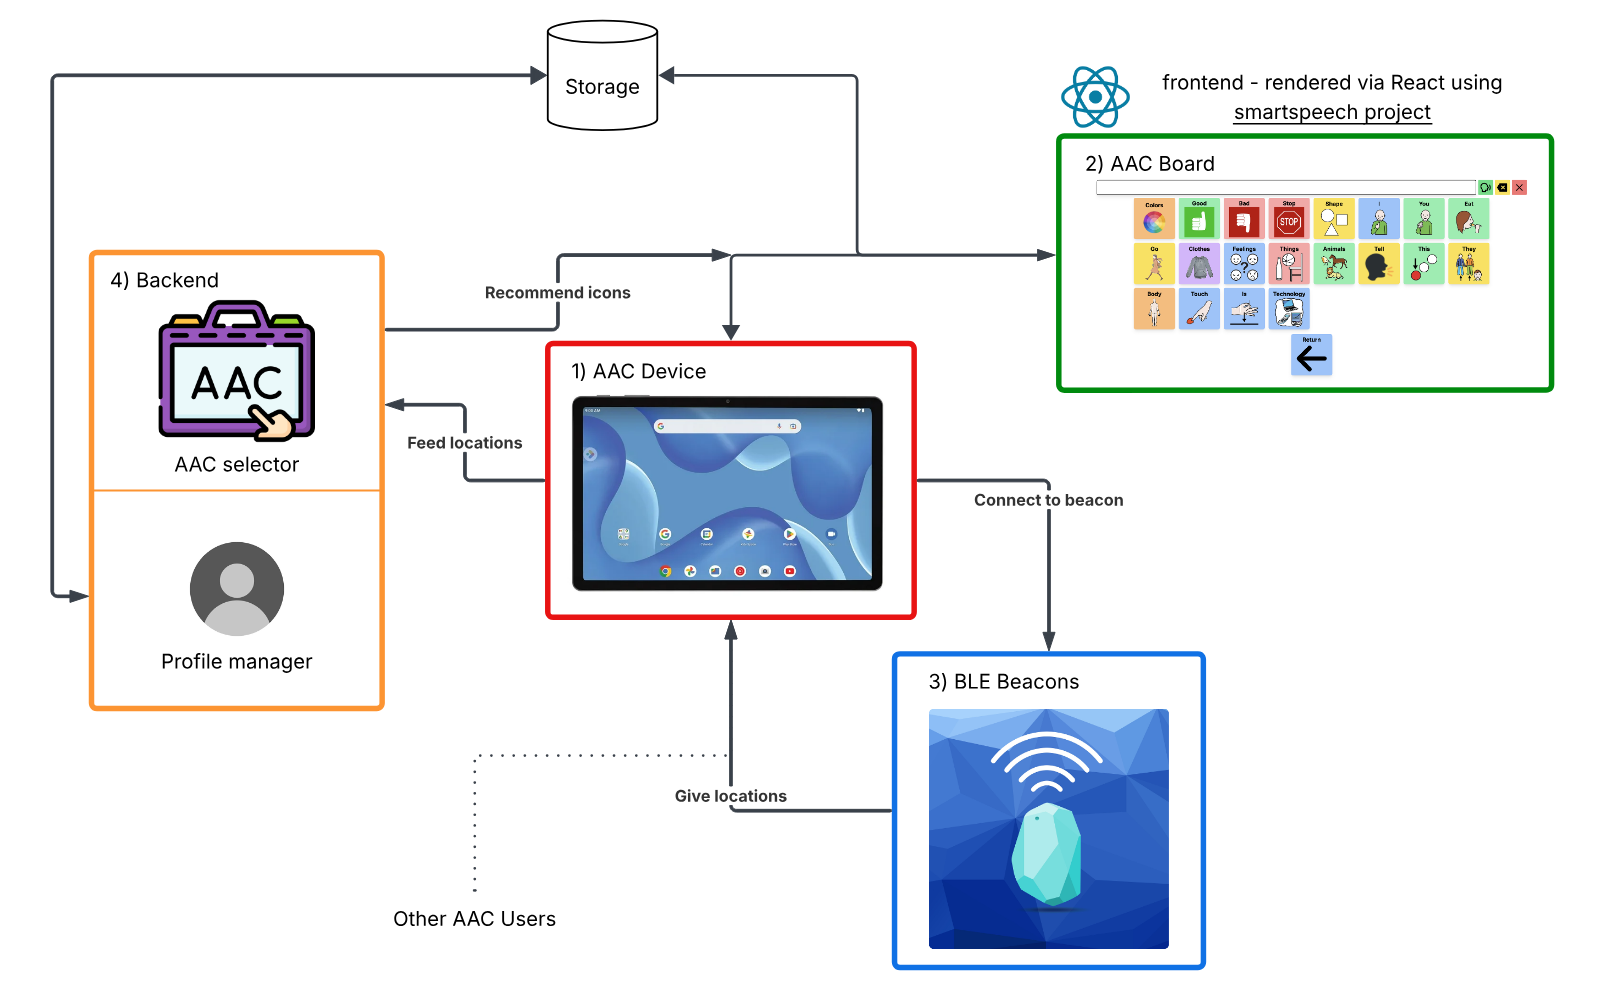
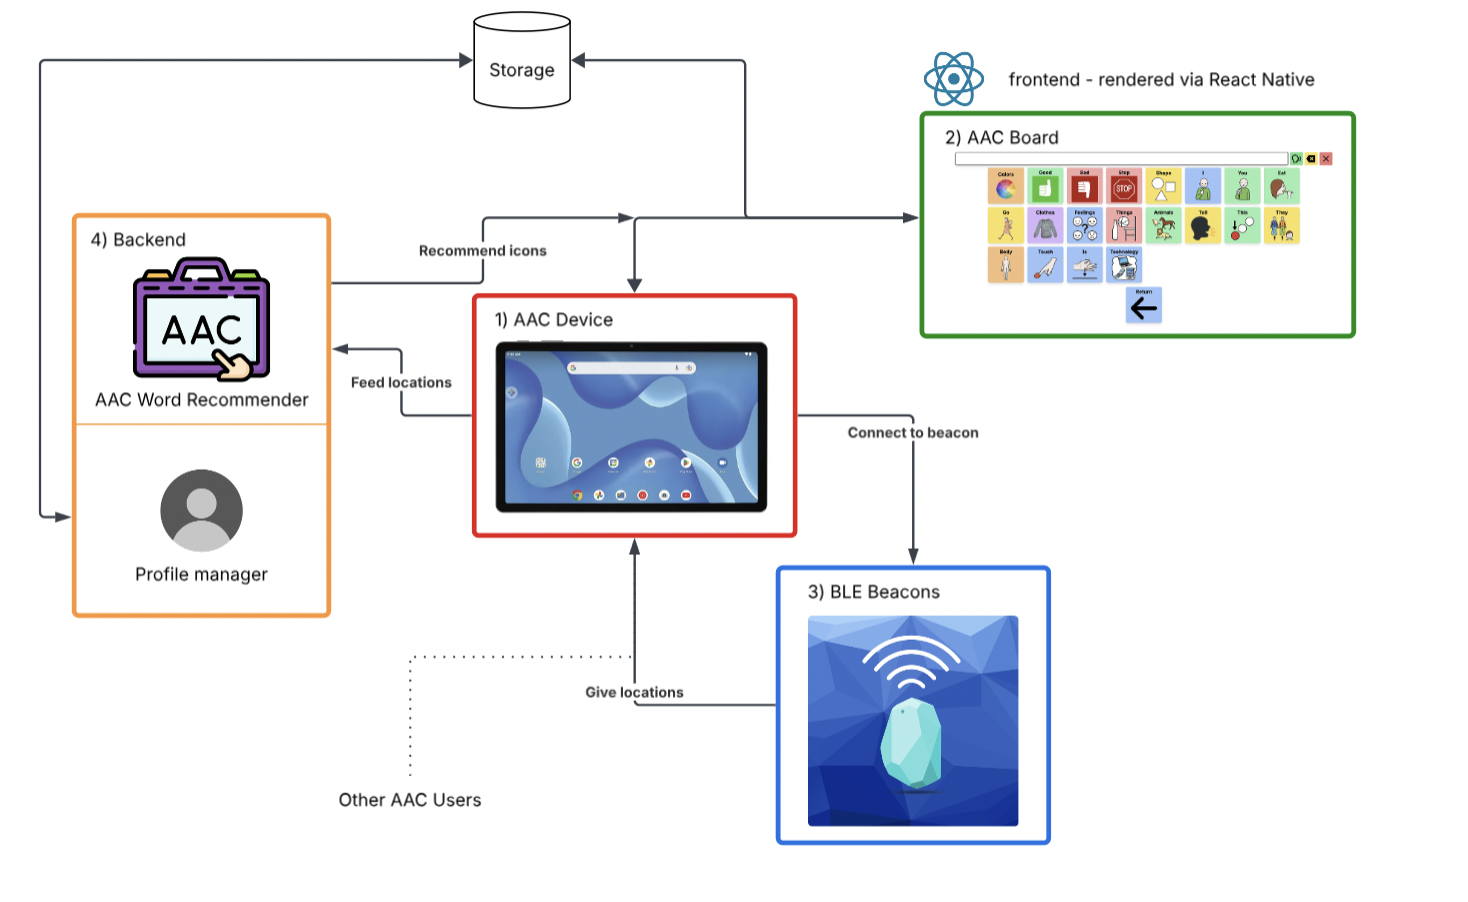
doc changes to reflect updated frameworks we are using

Changed region(s): [[0.0307, 0.0, 0.9809, 0.9933], [0.2146, 0.8692, 0.3372, 0.9623]]

diff --git a/documentation/docs/requirements/system-block-diagram.md b/documentation/docs/requirements/system-block-diagram.md
@@ -13,4 +13,8 @@ Depicts the central user:
 3) Device prompted for connection to BLE beacon
 4) Backend uses data gathered from beacons to recommend AAC icons to frontend
 
-These 4 components are the central actors that are able to influence and support AAC users to interact with others around them. **AS OF RIGHT NOW, BACKEND FRAMEWORK HAS NOT BEEN DECIDED UPON**.
+These 4 components are the central actors that are able to influence and support AAC users to interact with others around them.
+
+The *frontend* will be built in React Native using Expo as a framework to allow for mobile users to easily and efficiently access the app. 
+
+The *backend* will be built in python using the Django framework, this will be ideal for integrating user profile data and accessing information from our beacons and AAC devices.
